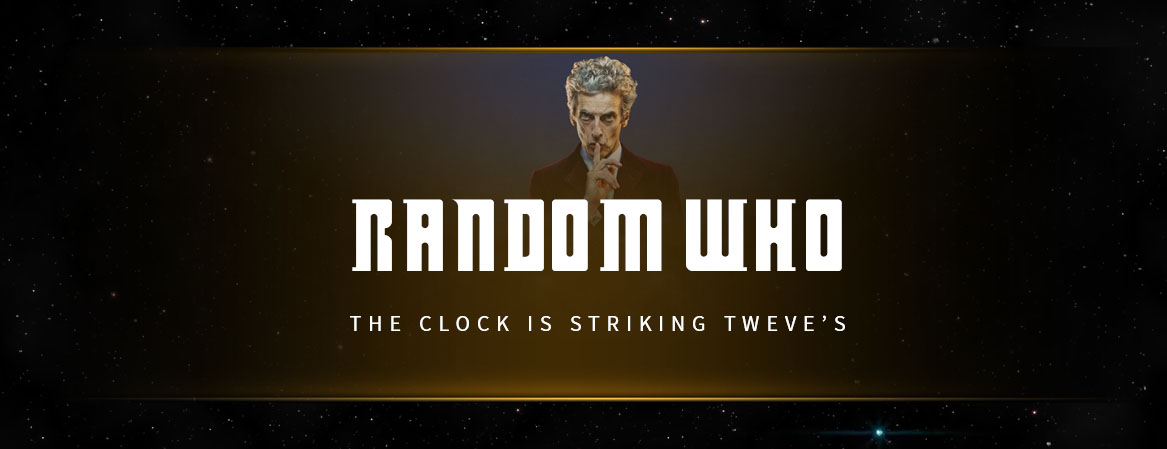
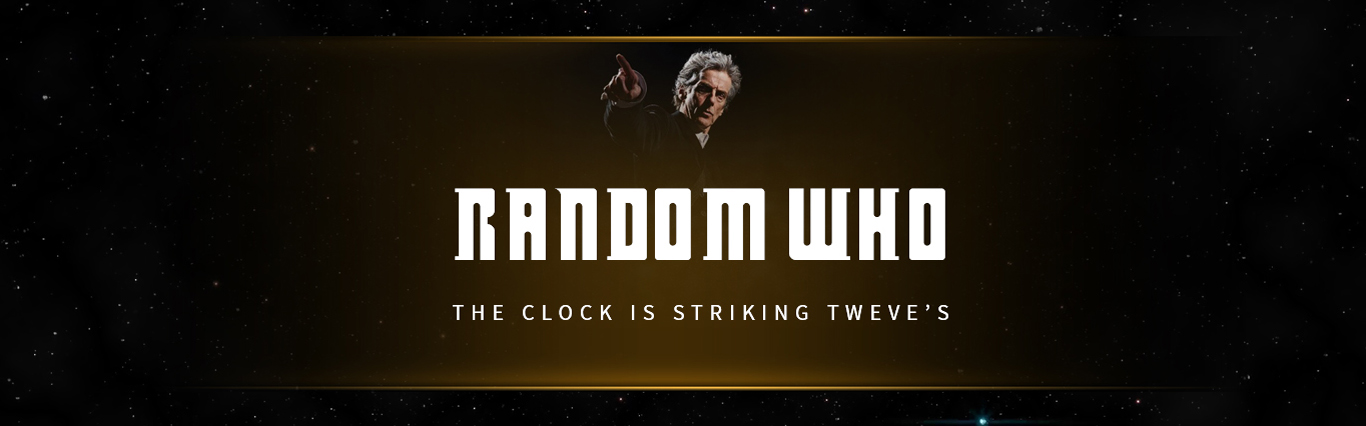
New Episode: The Doctor Falls; New cover image; updates to readme

diff --git a/app/single.js b/app/single.js
@@ -4,16 +4,13 @@
     "defaultImage": "s10",
     "defaultQuote": "",
     "episodes": [
-    {   
-        "numeroEpisodio": "12",
-        "nome": "The Doctor Falls",
+ {
+        "numeroEpisodio": "Christmas Special",
         "escritor": "Steven Moffat",
-        "arc": {
-            "type": "Two Parter",
-            "prev": ["s10e11"]
-        },
-        "image": "s10e12",
-        "theme":"inherit"
+        "nome": "T.B.A",
+        "image": "s10xmas02",
+        "special": true,
+        "theme":"s09e10"
     }
     ]
 }]

diff --git a/app/list.js b/app/list.js
@@ -1016,6 +1016,16 @@
         },
         "quote":"I waited for you...I waited for you",
         "image": "s10e11"
+    }, {
+        "numeroEpisodio": "12",
+        "nome": "The Doctor Falls",
+        "escritor": "Steven Moffat",
+        "arc": {
+            "type": "Two Parter",
+            "prev": ["s10e11"]
+        },
+        "image": "s10e12",
+        "theme":"s09e10"
     }
     ]
 }]

diff --git a/README.md b/README.md
@@ -1,4 +1,4 @@
-<img src="https://alicescfernandes.github.io/random-who/images/banner.jpg">
+img src="https://alicescfernandes.github.io/random-who/images/banner.jpg">
 <h2>Random Who</h2>
 <h3>A random doctor who episode sorter</h3>
 
@@ -34,3 +34,5 @@
 <h3 id="c3">Known Issues</h3>
 <p>Some images are missing, i'm still trying to figure out which</p>
 <p>Still trying to fix the mobile presentation of this website</p>
+<p>SEO still needs improving</p>
+<p>Some specials apear with the arcs transparent</p>
